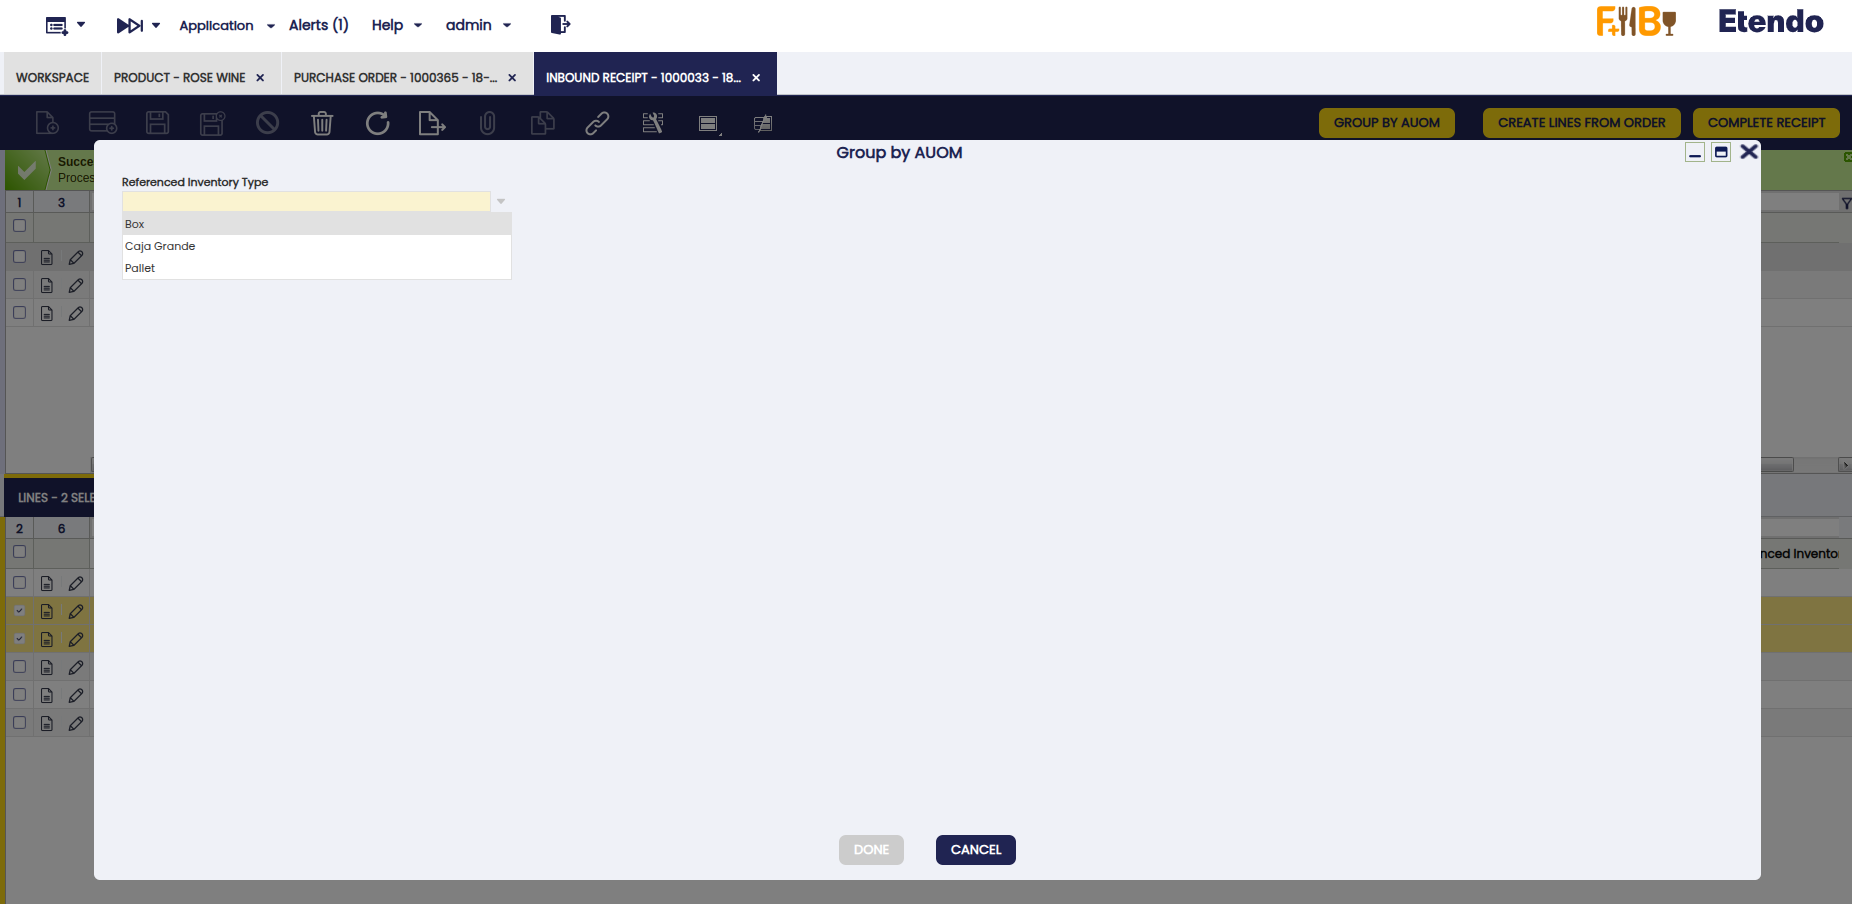
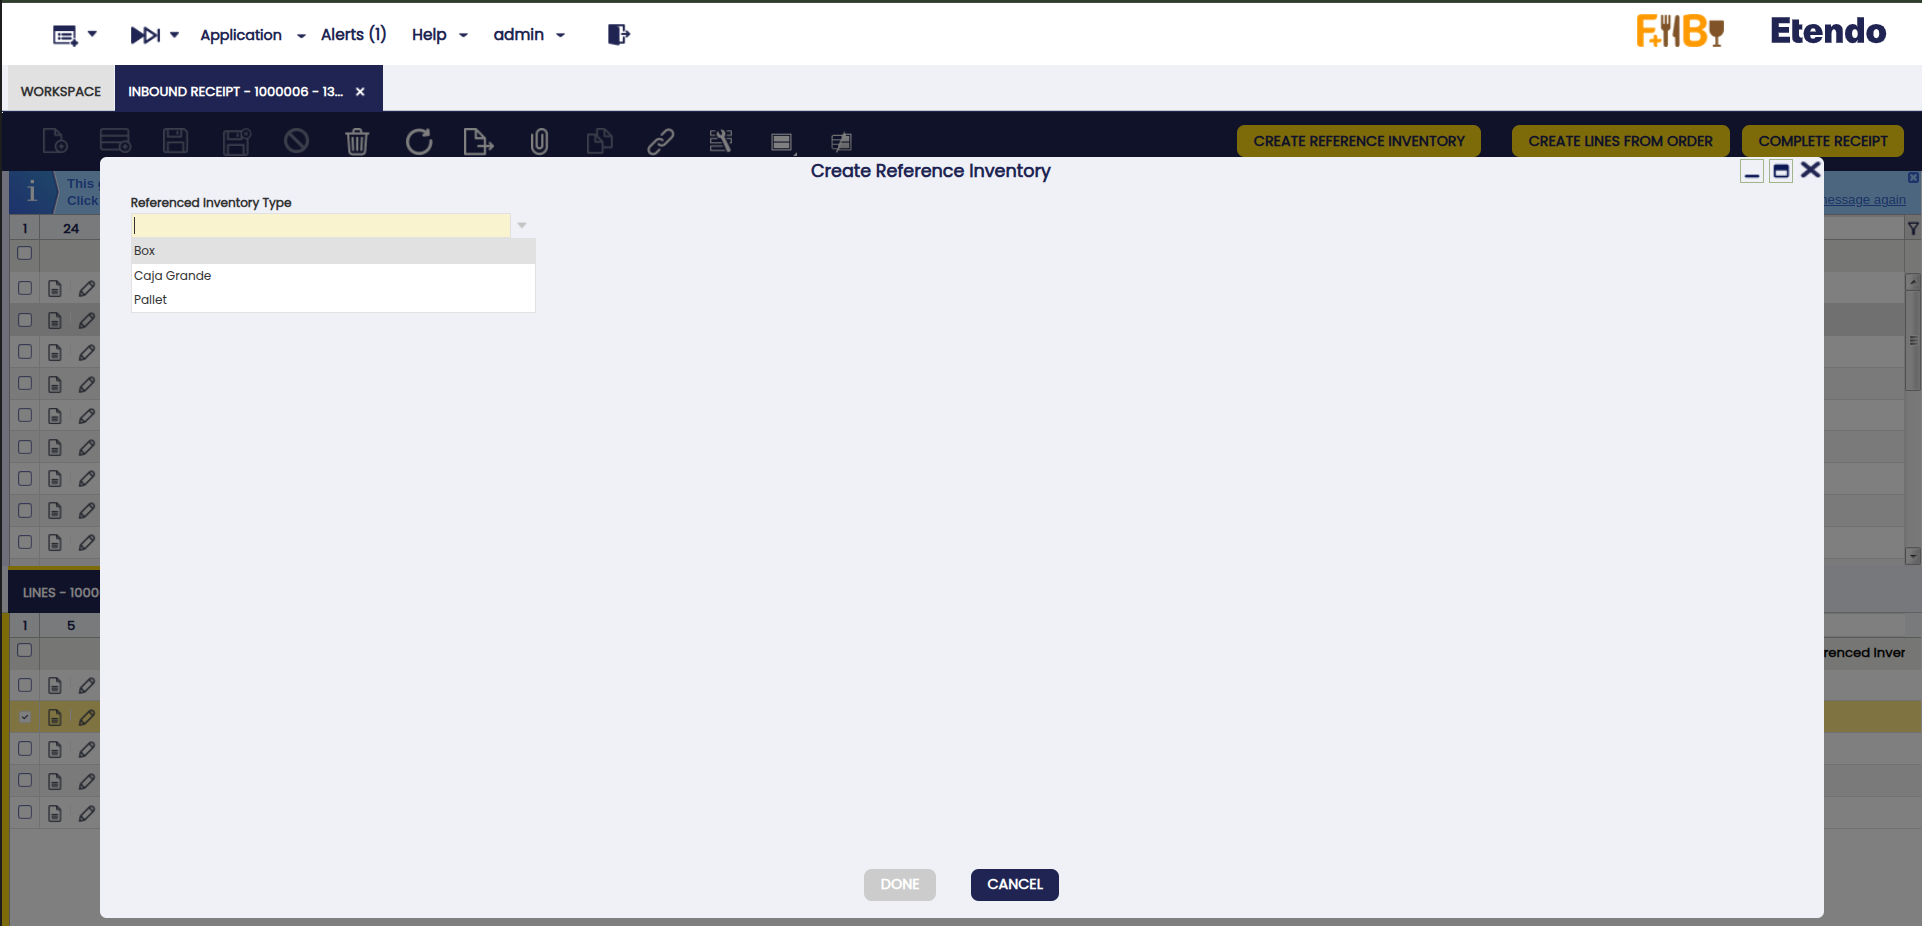
Feature ETP-2567: Partial Documentation

diff --git a/docs/user-guide/etendo-classic/optional-features/bundles/warehouse-extensions/advanced-warehouse-management.md b/docs/user-guide/etendo-classic/optional-features/bundles/warehouse-extensions/advanced-warehouse-management.md
@@ -334,9 +334,9 @@ The Tab Lines allows you to add and modify individual products from one or more 
 
 Extracts product lines from purchase orders. When clicked, a pop-up shows all available products, even from multiple purchase orders. You can select one or more lines to add to the Lines tab. If a storage bin is defined, it will be assigned to all selected lines; otherwise, it can be set individually per line.
 
-![](../../../../../assets/user-guide/etendo-classic/optional-features/bundles/warehouse-extensions/advanced-warehouse-management/inbound-receipt-button-1.png)
+![](../../../../../assets/user-guide/etendo-classic/optional-features/bundles/warehouse-extensions/advanced-warehouse-management/inbound-receipt-create-line-boton.png)
 
-**Group By AUOM**
+**Create Reference Inventory**
 
 This button appears when at least one line is selected. It allows multiple/mixed grouping into a single type of logistics unit (boxes, pallets, or other types defined in the system). Its function is to gather selected products from the Lines tab into a specific grouping, according to the type of grouping chosen.
 
@@ -347,8 +347,7 @@ The grouping is reflected in the Grouped by column of the selected lines (e.g., 
 ![](../../../../../assets/user-guide/etendo-classic/optional-features/bundles/warehouse-extensions/advanced-warehouse-management/inbound-receipt-button-group-2.png)
 
 !!! info
-    - Only lines from the same Sales Order can be grouped.
-    - If the products enters in an logistic unit (e.g., boxes), it can be grouped, but the system interprets it as total units. Example: 2 boxes of wine (20 units) + 100 loose units = 1 grouping of 120 units.  
+    - Only lines from the same Sales Order can be grouped. 
     - Each time a different grouping is created, you must repeat the action with the corresponding lines. This allows to generate several independent groupings (for example, Box-1, Box-2, Box-3...).    
     - If a line is already grouped and is included in a new grouping, the previous grouping will be replaced.
 
